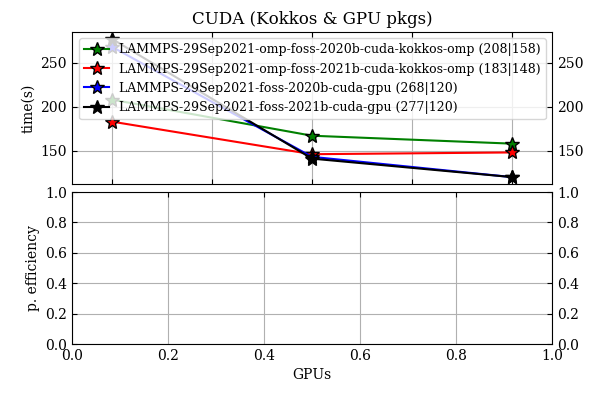
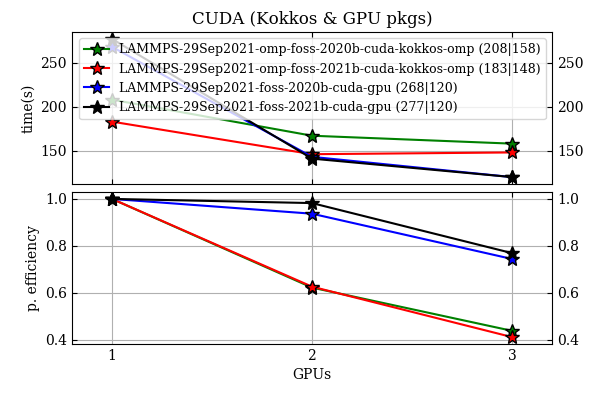
add parallel efficiency on plots

diff --git a/performance/collect.py b/performance/collect.py
@@ -83,6 +83,8 @@ for system in systems:
   # cuda pictures
   figcuda, axcuda = initFigure(6, 4, maxcpus, 'CUDA (Kokkos & GPU pkgs)')
   axcuda[1].set_xlabel('GPUs')
+  axcuda[0].set_xticks([1,2,3])
+  axcuda[1].set_xticks([1,2,3])
   axcuda_idx = -1
 
   # cuda pictures
@@ -155,7 +157,6 @@ for system in systems:
                        if thrd == 1:
                            cpu1_time = y[0]
 
-                       print(x,y)
                        pefficiency = [cpu1_time/(xx*yy) for (xx,yy) in zip(x,y)]
 
                        firsty, lasty = y[0], y[-1]
@@ -182,15 +183,18 @@ for system in systems:
                     data = timing_vc
                     x, y = data[:,0], data[:,1]
                     idx = np.argsort(x)
+                    x, y = x[idx], y[idx]
 
-                    firsty, lasty = y[idx[0]], y[idx[-1]]
+                    pefficiency = [y[0]/(xx*yy) for (xx,yy) in zip(x,y)]
+
+                    firsty, lasty = y[0], y[-1]
                     lammps_label = "LAMMPS-{}-{} ({}|{})".format(version, compiler, firsty, lasty)
 
                     lineBaseColors[axs_idx]
-                    plotxy(x[idx], y[idx], '-*', ax0[0], color = lineBaseColors[axs_idx], 
-                                            markersize = markersize, label = lammps_label)
+                    plotxy(x, y, '-*', ax0[0], color = lineBaseColors[axs_idx], 
+                                       markersize = markersize, label = lammps_label)
 
-                    plotxy(x[idx], [y[idx[0]]/(xx*yy) for (xx,yy) in zip(x[idx],y[idx])], '-*', ax0[1], color = lineBaseColors[axs_idx], 
+                    plotxy(x, pefficiency, '-*', ax0[1], color = lineBaseColors[axs_idx], 
                                             markersize = markersize, label = lammps_label)
 
 
@@ -204,11 +208,15 @@ for system in systems:
                         ax0[0].set_xlim([0.8,3.2])
 
                         axcuda[0].set_xlim([0.8,3.2])
+                        axcuda[1].set_xlim([0.8,3.2])
 
-                        plotxy(x[idx], y[idx], '-*', axcuda[0], color = lineBaseColors[axcuda_idx], 
+                        plotxy(x, y, '-*', axcuda[0], color = lineBaseColors[axcuda_idx], 
+                                                markersize = markersize, label = lammps_label)
+                        plotxy(x, pefficiency, '-*', axcuda[1], color = lineBaseColors[axcuda_idx], 
                                                 markersize = markersize, label = lammps_label)
 
-                        for xx, yy  in zip(x[idx], y[idx]):
+
+                        for xx, yy  in zip(x, y):
                           timing2Table[rcfg][compiler][xx] = yy
 
                     if rcfg == 'cuda-gpu-omp' or rcfg == 'cuda-kokkos-omp':
@@ -219,16 +227,16 @@ for system in systems:
 
                         axcuda_omp[0].set_xlim([0.8,3.2])
 
-                        plotxy(x[idx], y[idx], '-*', axcuda_omp[0], color = lineBaseColors[axcuda_omp_idx], 
+                        plotxy(x, y, '-*', axcuda_omp[0], color = lineBaseColors[axcuda_omp_idx], 
                                                 markersize = markersize, label = lammps_label)
 
-                        for xx, yy  in zip(x[idx], y[idx]):
+                        for xx, yy  in zip(x, y):
                           timing2Table[rcfg][compiler][xx] = yy
 
                     if (rcfg.find('cpu') >=0):
                           ax0[0].set_xlim(xlimcpu) ; ax0[1].set_xlim(xlimcpu)
                           ax0[0].set_ylim(ylimcpu) ; ax0[1].set_ylim([0,1])
-                          timing2Table[rcfg][compiler][1] = y[idx[-1]]
+                          timing2Table[rcfg][compiler][1] = y[-1]
 
 
 

diff --git a/performance/functionsPlot.py b/performance/functionsPlot.py
@@ -64,8 +64,8 @@ def initFigureRow(w, h, nrow, ncol, maxcores, title):
       ax.tick_params(axis='x',which='both',bottom=True,top=True,direction="in")
       ax.tick_params(axis='y',which='both',left=True,right=True,direction="in")
       if (i==0 and j==0): 
-          ax.set_ylabel('time (s)')
-          ax.yaxis.set_label_coords(-0.15 , 0.5+0.7*nrow)
+          ax.set_ylabel('p. efficiency')
+          ax.yaxis.set_label_coords(-0.15 , -0.2+0.7*nrow)
       if (i==1): ax.tick_params(axis='x',which='both',labelbottom=False,direction="in")
       if (j==0): ax.tick_params(axis='y',which='both',labelleft=True,labelright=False,left=True,right=True,direction="in")
       if (j==1): ax.tick_params(axis='y',which='both',labelleft=False,labelright=True,left=True,right=True,direction="in")

diff --git a/performance/templates.py b/performance/templates.py
@@ -43,7 +43,7 @@ export MKL_CBWR=COMPATIBLE
 for ntasks in {}
 do
 
-srun -n ${{ntasks}} -c ${{OMP_NUM_THREADS}} lmp -screen MPIx${{ntasks}}_GPUx{}_THRDSx{} {} -in in.lammps
+srun --cpu-bind=cores -n ${{ntasks}} -c ${{OMP_NUM_THREADS}} lmp -screen MPIx${{ntasks}}_GPUx{}_THRDSx{} {} -in in.lammps
 
 done
 """.format(threads, envar, ' '.join([str(x) for x in tasks]), gpus, threads, suffix)

diff --git a/README.md b/README.md
@@ -28,18 +28,18 @@ Finally, this is the local installations with all paths pointing inside the home
 ## Performance
 
 ### Setup
-The test system consist of 55296 particles interacting via the Lennard-Jones potential. In the pictures below, legends contain numbers in brackets, which are `(timing for the first (left-most) data point | timing for the last (right-most) data point)`, all in seconds. For CPU usage, the last one is more conclusive because there is no interference with other jobs on the same node. In pure MPI and in runs with single openMP thread per MPI task the number of MPI tasks is equal to the number of CPU cores allocated for a job. When using a larger number of threads, the number of MPI tasks can be evaluated as number of cores for a chosen data point divided the number of OpenMP threads. We also estimate the parallel efficiency (`p. efficiency` on plots) as `T[1]/(N T[N])` where `T[x]` is timing when running on `x` CPUs.
+The test system consist of 55296 particles interacting via the Lennard-Jones potential. In the pictures below, legends contain numbers in brackets, which are `(timing for the first (left-most) data point | timing for the last (right-most) data point)`, all in seconds. For CPU usage, the last one is more conclusive because there is no interference with other jobs on the same node. In pure MPI and in runs with single OpenMP thread per MPI task the number of MPI tasks is equal to the number of CPU cores allocated for a job. When using a larger number of threads, the number of MPI tasks can be evaluated as number of cores for a chosen data point divided the number of OpenMP threads. We also estimate the parallel efficiency (`p. efficiency` on plots) as `T[1]/(N T[N])` where `T[x]` is timing when running on `x` CPUs.
 
 ### Avoid node exclusive usage at partial occupation
 The exclusive usage at *partial* occupation of CPU-nodes gives a worse performance on Sulis for newer `foss-*` toolchains. This happens, most likely, due to a different way of allocating MPI ranks to sockets. Therefore, one should run on as much cores as requested from Slurm. To see the effect, check out first to a previous commit, e.g. `aacefb6f42f39cd0bebe7fe4e4ddff8055d3136d`.
 
 ### Bare LAMMPS
-foss-2020b and foss-2021b show slightly better performance.
+foss-2020b and foss-2021b show a slightly better performance.
 
 ![lj-cpu-bare](./performance/pictures/lj_cpu-bare.png)
 
 ### OPT package
-Similar result gives `OPT` package, although all calculations are faster overall.
+`OPT` package gives similar results, although all calculations are faster overall.
 
 ![lj-cpu-opt](./performance/pictures/lj_cpu-opt.png)
 
@@ -49,25 +49,25 @@ I.e., MPI-only. It gives similar timing as bare LAMMPS.
 ![lj-cpu-kokkos](./performance/pictures/lj_cpu-kokkos.png)
 
 ### OMP
-`OMP_NUM_THREADS=2` gives around 20% performance gain over the bare LAMMPS runs and around 8% in comparison with `OMP_NUM_THREADS=1` calculation. Moreover, the best single node timing was achieved in this case with `foss-2021b` toolchain. The `OMP_NUM_THREADS=4`, however, reduces some communication between MPI processes, which makes the calculations faster at `cores=~100`, where pure MPI calculations get slower. Although the parallel efficiency is as low as 50% in this range, it may give benefits in larger-scale calculations.
+`OMP_NUM_THREADS=2` gives around 20% performance gain over the bare LAMMPS runs and around 8% in comparison with `OMP_NUM_THREADS=1` calculation. The `OMP_NUM_THREADS=4`, however, reduces some communication between MPI processes, which makes the calculations faster at `cores=~100`, where pure MPI calculations get slower. Note, that calculations with 8 OpenMP threads per MPI task were submitted using the non-default CPU binding via `srun --cpu-bind=cores...`, otherwise some jobs were unreasonably slow.
 
 ![lj-cpu-omp](./performance/pictures/lj_cpu-omp.png)
 
 ### Kokkos (OpenMP backend)
-Similar bahaviour as with `OMP` package, although slightly slower overall.
+Similar behaviour as with `OMP` package, although slightly slower overall.
 
 ![lj-cpu-kokkos-omp](./performance/pictures/lj_cpu-kokkos-omp.png)
 
 ### Cuda: GPU & Kokkos packages
 The best performance is achieved when the number of requested GPUs is equal to the number of MPI tasks utilising one CPU each (i.e., no threading).
-In this case `foss-2021b` shows dramatic performance increase. Although the GPU package shows better scaling, this may change depending on a system of study
+In this case `foss-2021b` shows dramatic performance increase. Although the GPU package shows better scaling, this may change depending on a system of study. The parallel efficiency was computed in similar way as before, `T[1]/(G T[G])` with `G` being the number of GPUs
 
 ![lj-cuda](./performance/pictures/lj-cuda.png)
 
 ### Conclusions
  * Avoid exclusive when partially occupying a node if possible.
 
- * Calculations running on 128 cores have low parallel efficiency for chosen LJ system. This, however, may change when considering a different system, running a different types of calculations or using more complicated forces. The immediate advise would be trying to run on less than 64 cores. Another suggestion would be to test the parallel efficiency in a particular situation.
+ * Calculations running on 128 CPU cores have low parallel efficiency for the chosen LJ system. This, however, may change when considering a different system, running different types of calculations or using more complicated forces. The immediate advise in this situation would be to run on less cores (64 or less). Another suggestion would be to test the parallel efficiency in a particular system/calculation.
 
  * `CPU` build.  `foss-2021b-kokkos-omp` (`OpenMP` `Kokkos` backend) is probably the best candidate. Corresponding easyconfig is here:    
      `./29Sep2021/foss-2021b/easyconfigs/LAMMPS-29Sep2021-foss-2021b-kokkos-omp.eb`    
